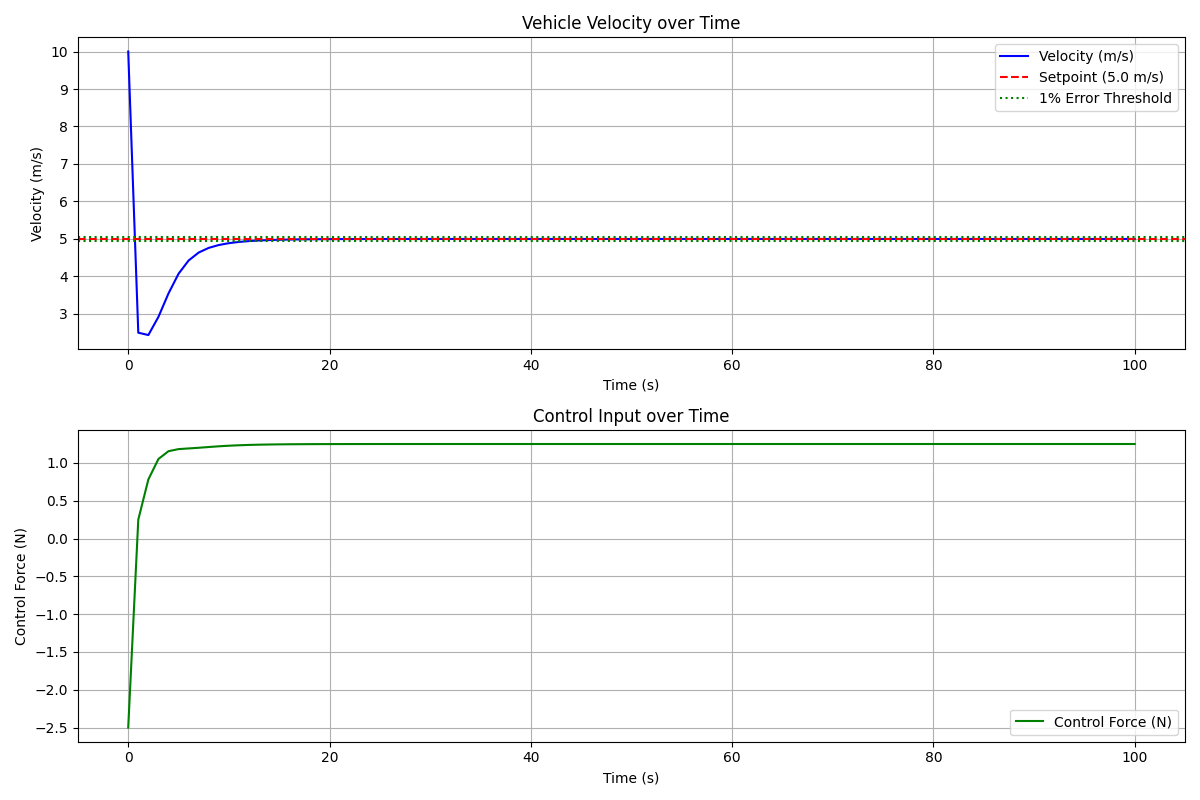
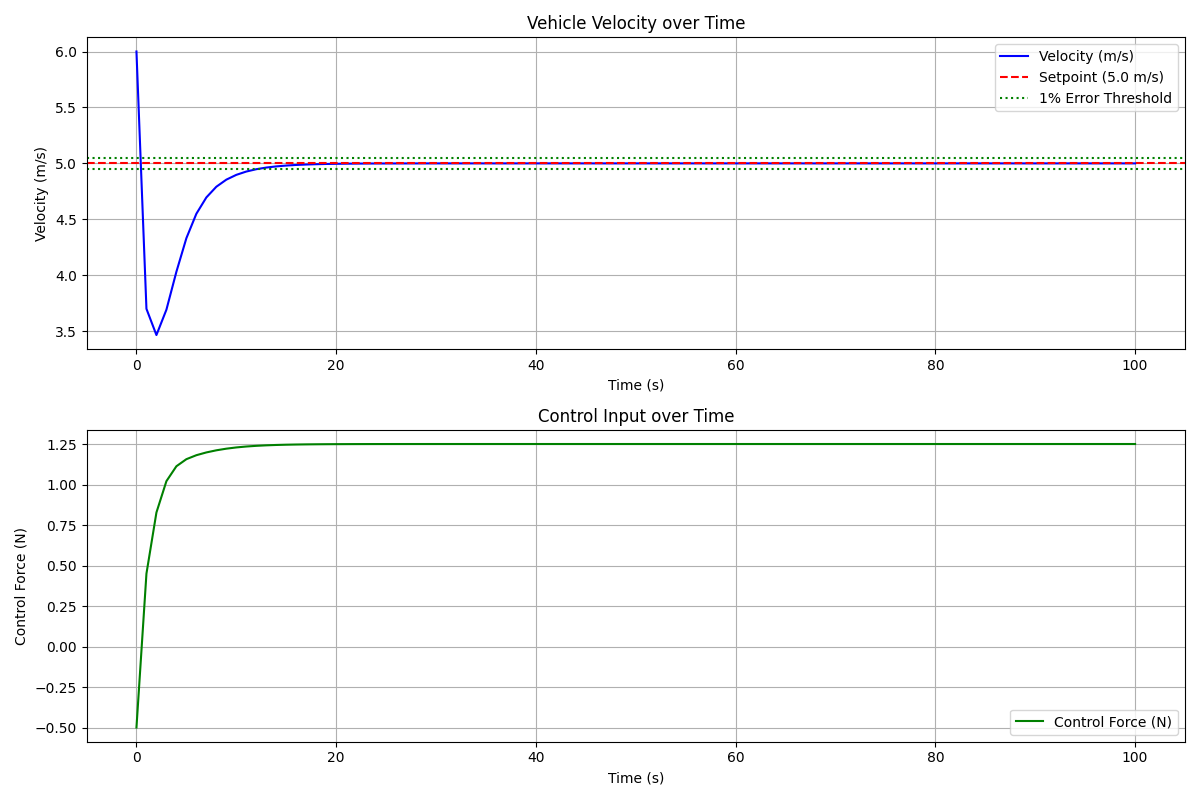
feat: add v_init argument to run_uncontrolled_sim

diff --git a/project/run_simulation.py b/project/run_simulation.py
@@ -5,11 +5,11 @@ from vehicle_dynamics import Vehicle
 from pid_controller import PIDController
 from simulation import Simulation
 
-def run_uncontrolled_simulation():
+def run_uncontrolled_simulation(v_init=10, duration_s=100):
     """
     Run and plot a simulation without a controller.
     """
-    vehicle = Vehicle(mass_kg=1.0, initial_velocity_mps=10.0, drag_coefficient_kgpm=0.05)
+    vehicle = Vehicle(mass_kg=1.0, initial_velocity_mps=v_init, drag_coefficient_kgpm=0.05)
     sim = Simulation(vehicle=vehicle)
     sim.run(duration_s=100)
     sim.plot_results(filename="uncontrolled_velocity.png")
@@ -49,7 +49,7 @@ def run_pid_controlled_simulation(v_init=10, kp=2.0, ki=0.1, kd=1.0, setpoint=5.
 if __name__ == "__main__":
     # Run the uncontrolled simulation
     print("Running uncontrolled simulation...")
-    # sim_uncontrolled = run_uncontrolled_simulation()
+    sim_uncontrolled = run_uncontrolled_simulation(v_init=6, duration_s=100)
     
     # Run the PID controlled simulation
     print("\nRunning PID controlled simulation...")
